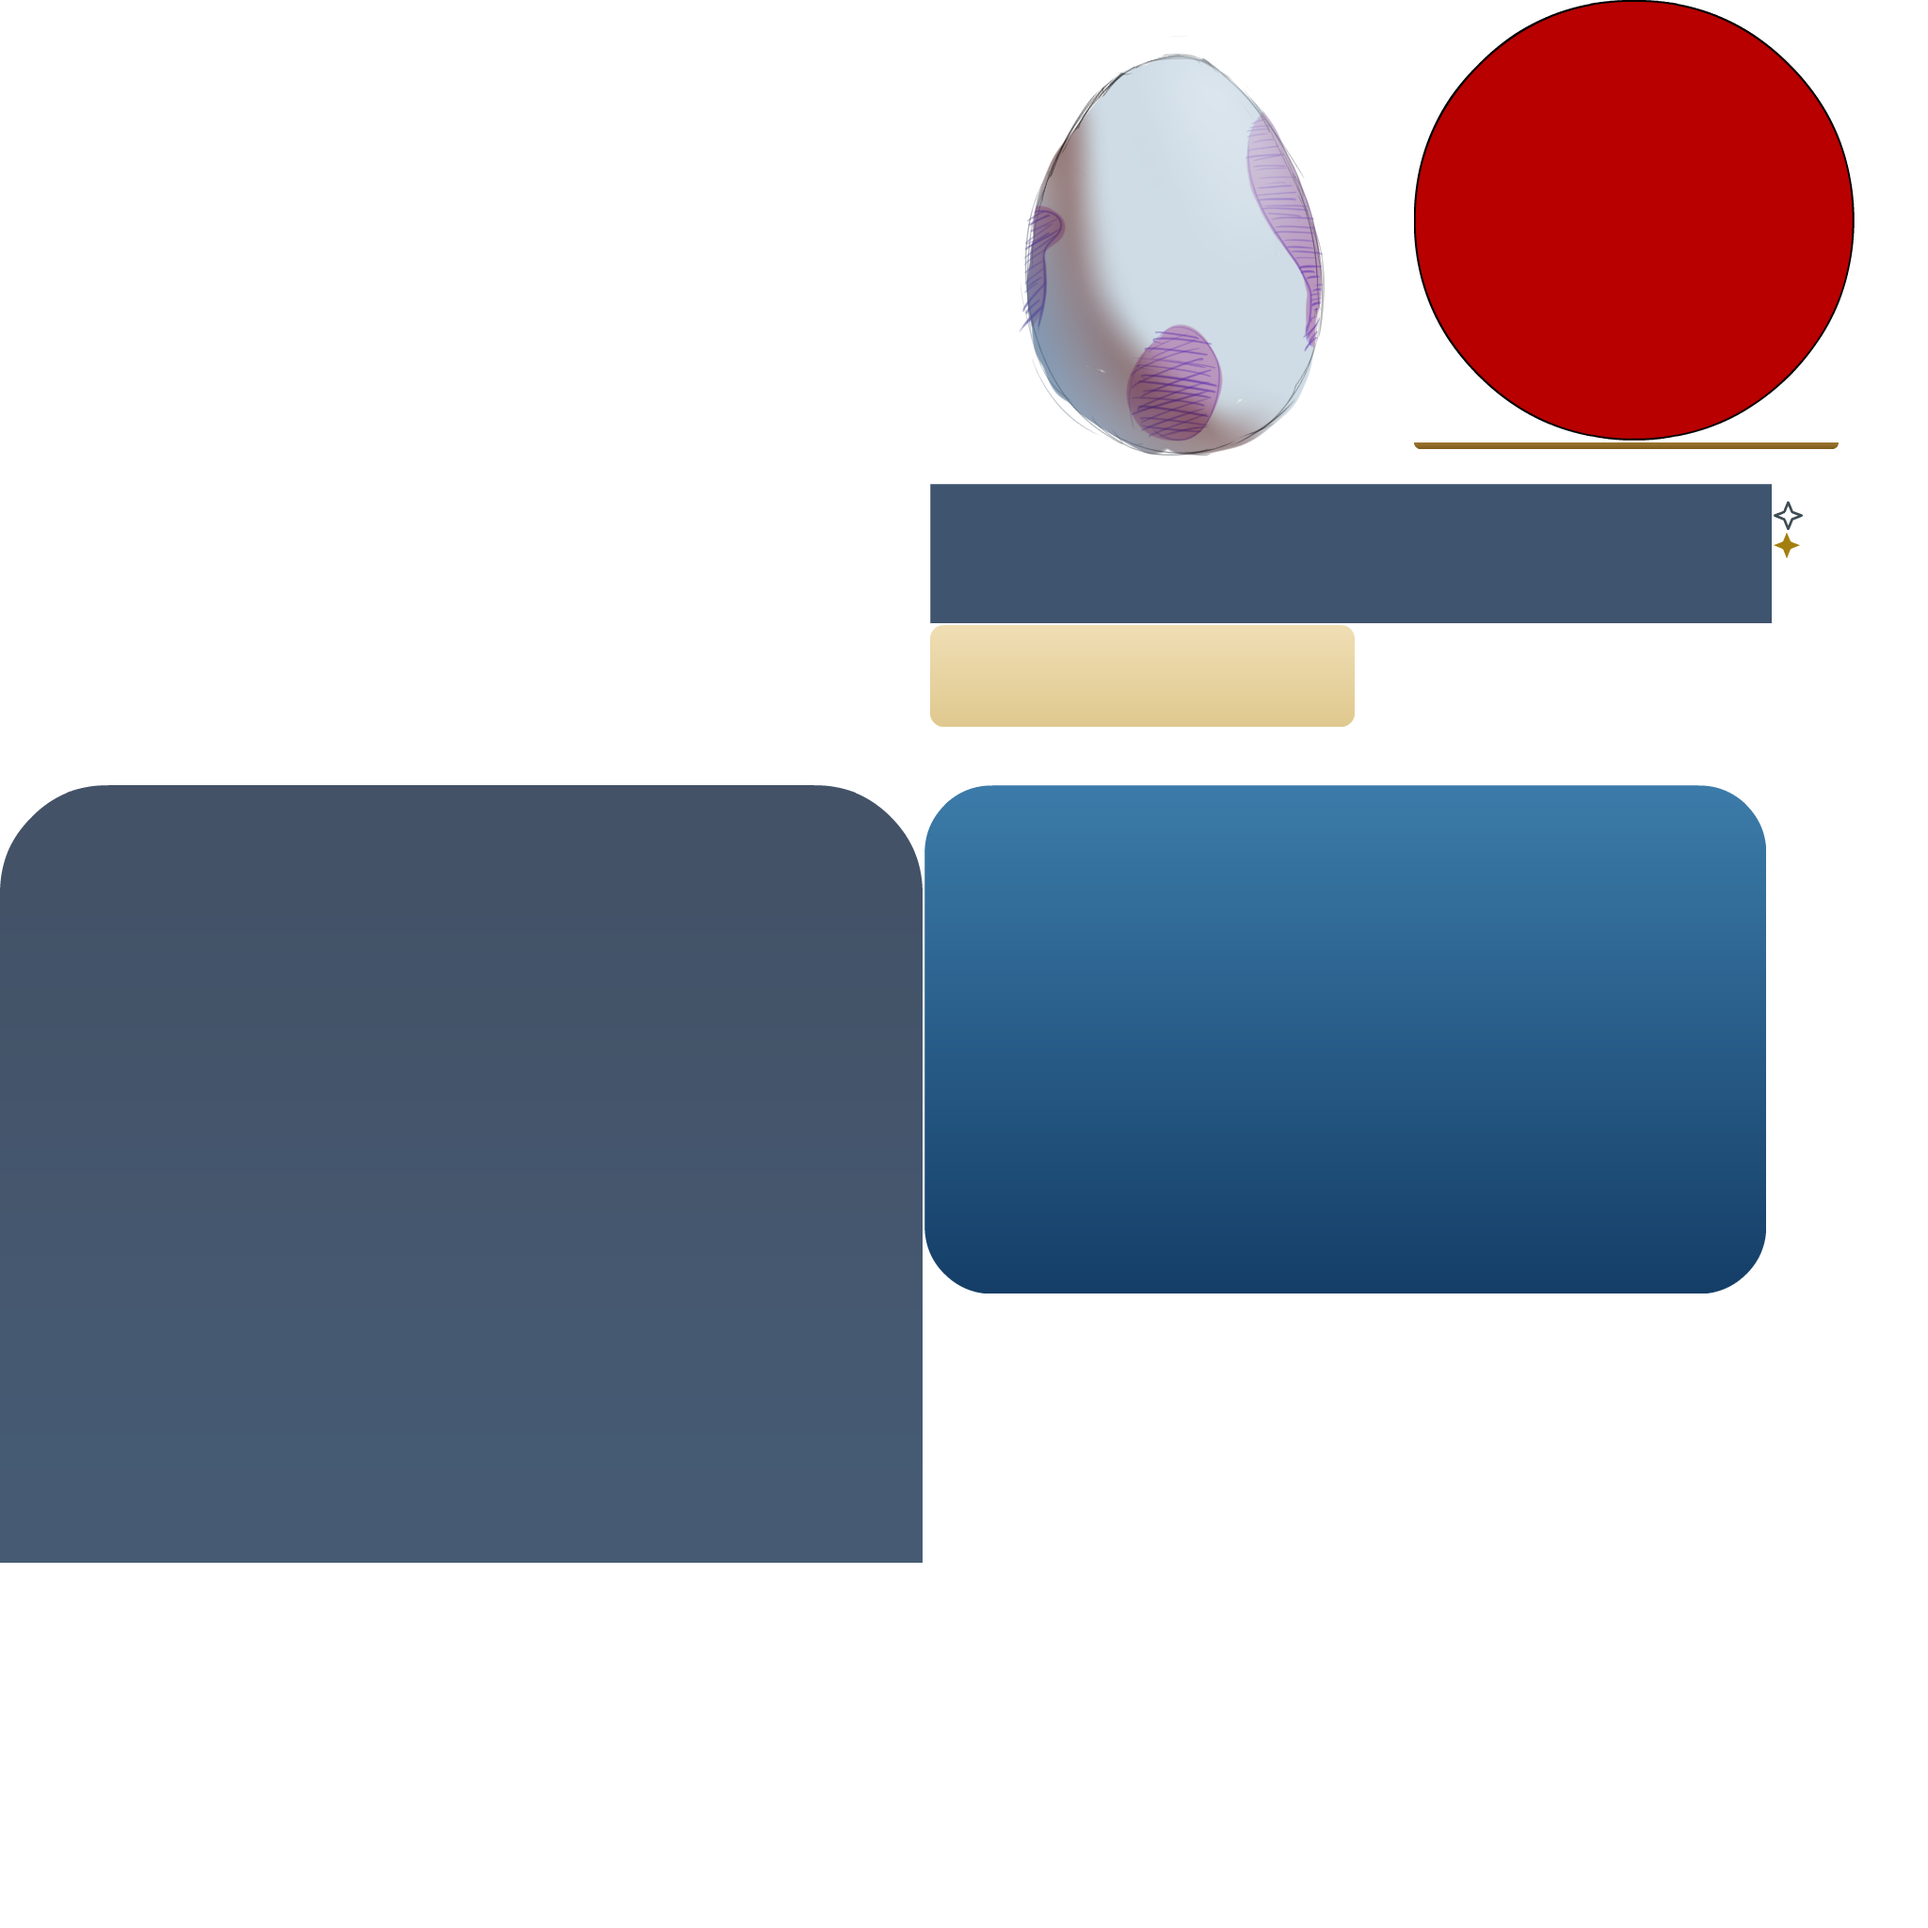
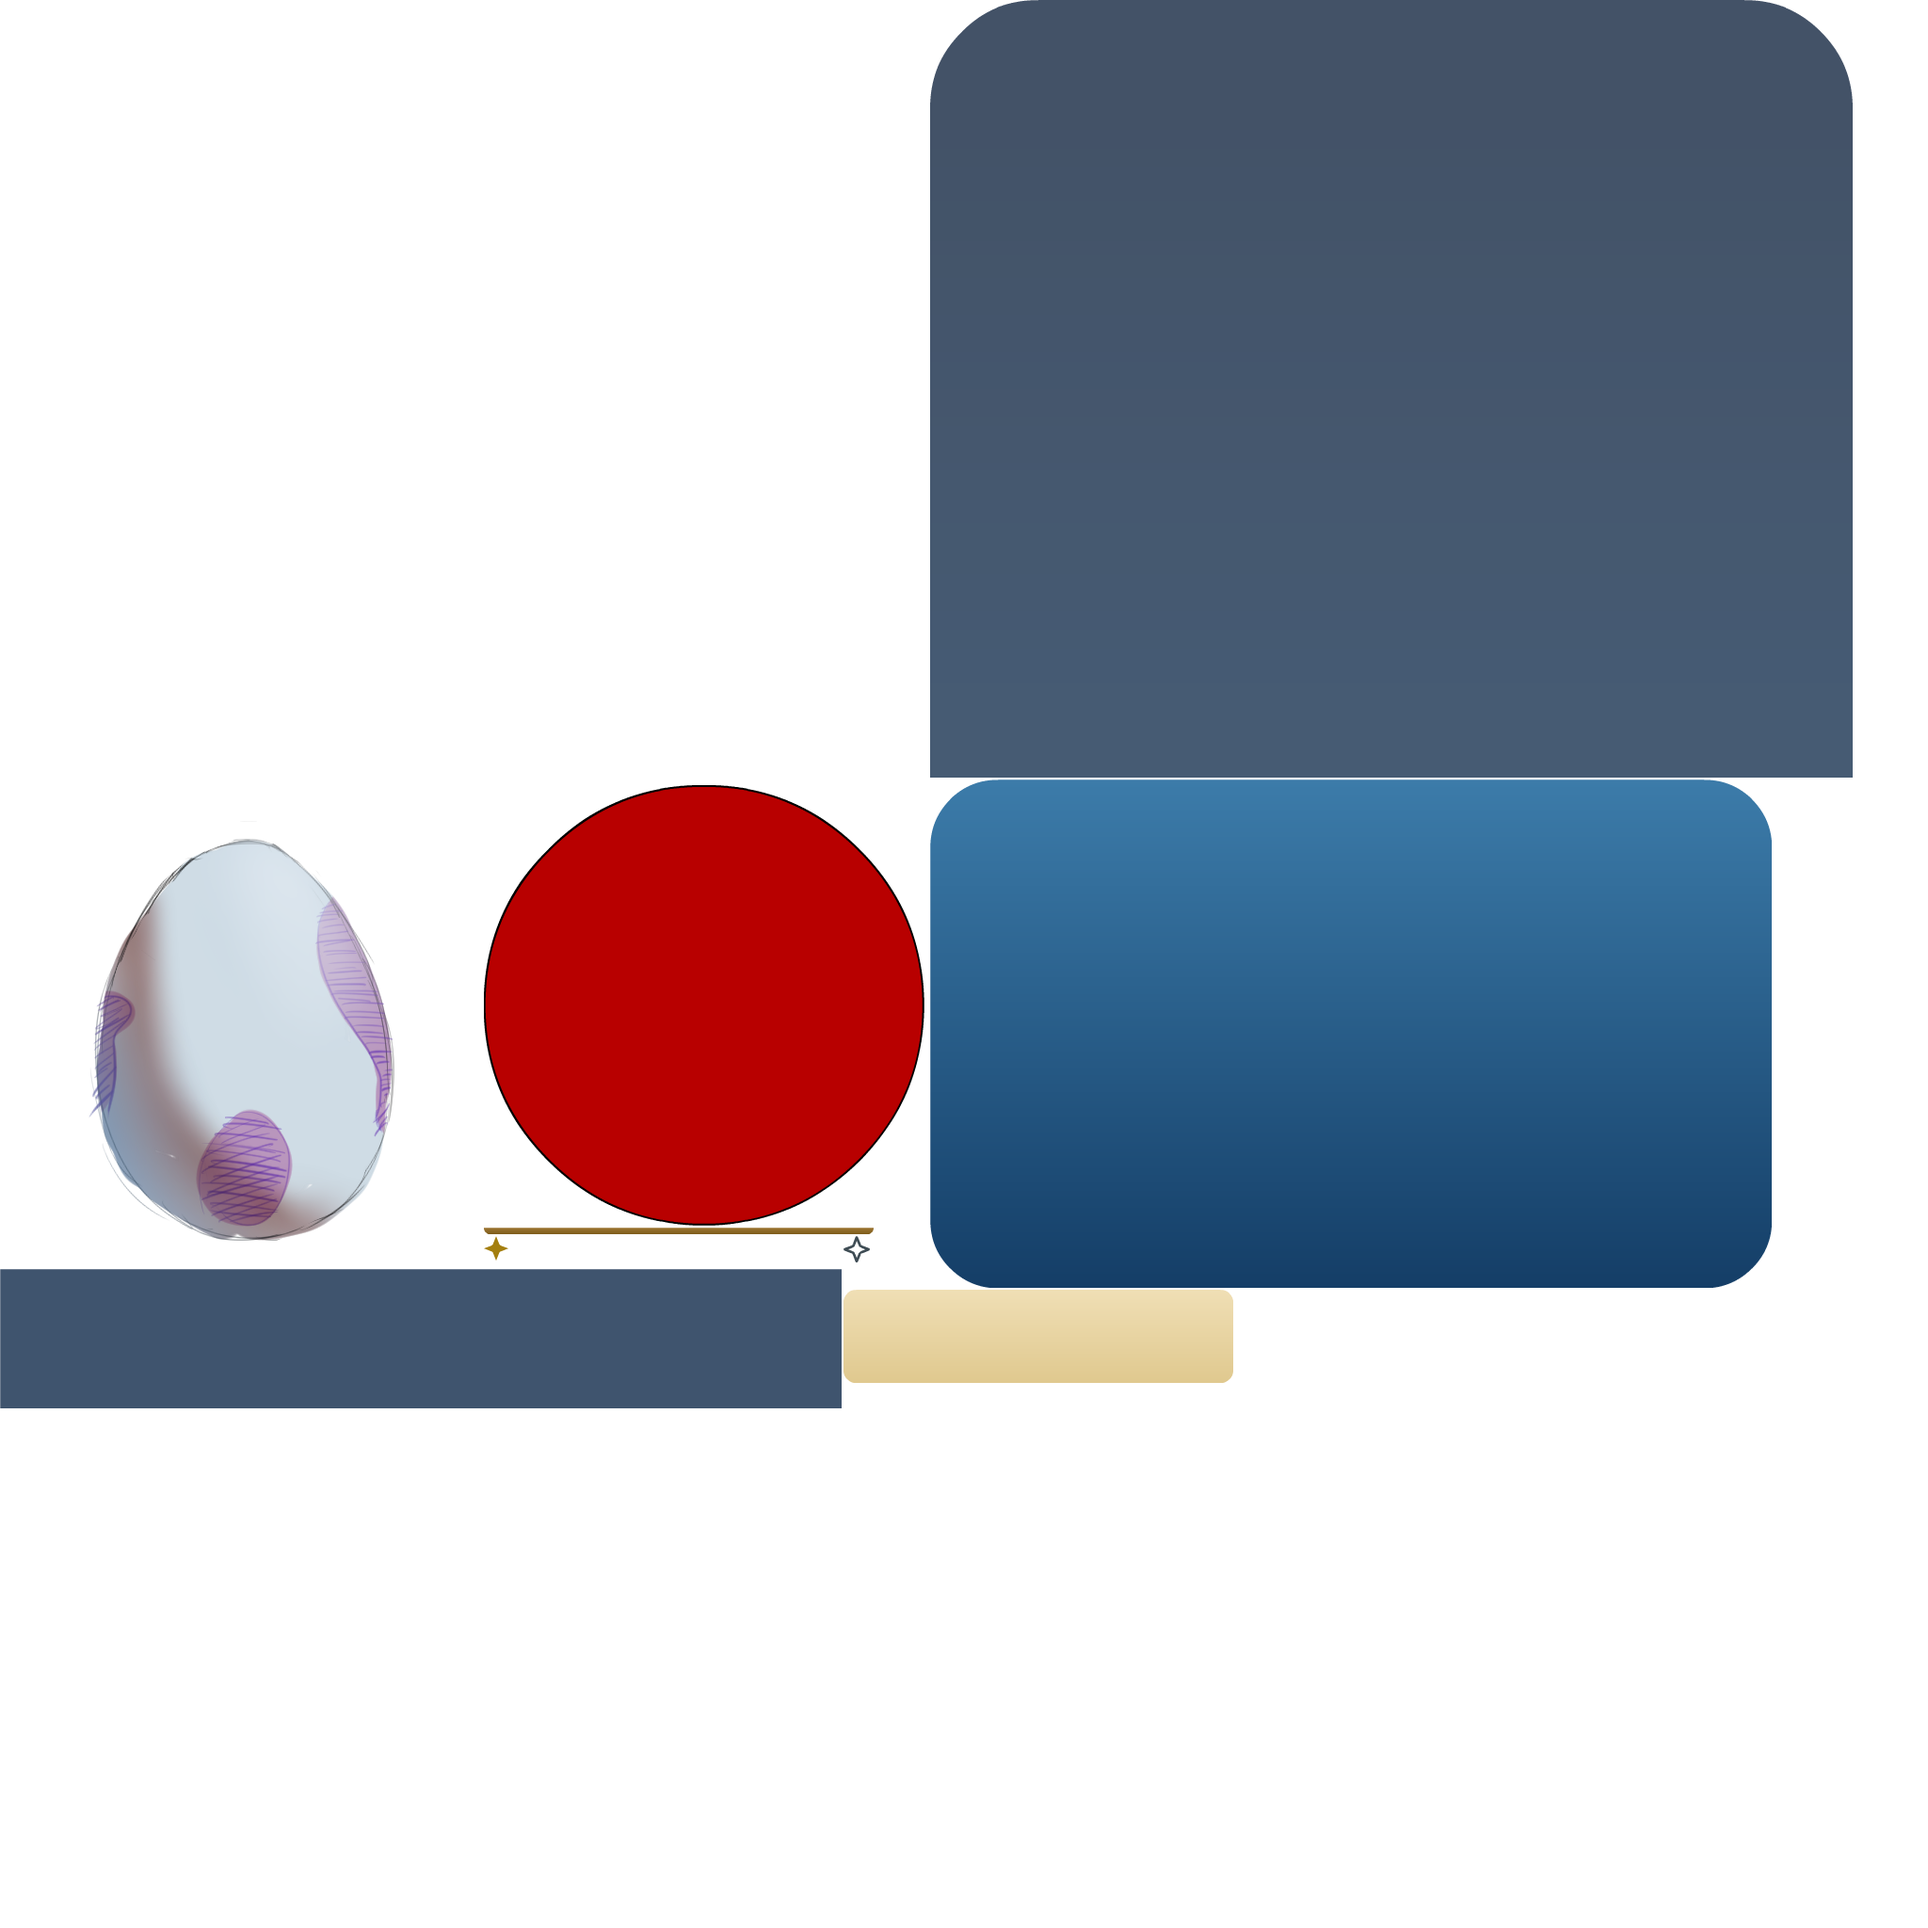
button update

diff --git a/index.js b/index.js
@@ -3,7 +3,7 @@
 var p; // shortcut to reference prototypes
 var lib={};var ss={};var img={};
 lib.ssMetadata = [
-		{name:"index_atlas_", frames: [[1502,0,468,468],[0,834,980,826],[0,0,986,832],[982,834,894,540],[1178,1376,188,188],[982,1376,194,194],[1884,565,28,28],[1884,532,31,31],[988,664,451,108],[1502,470,451,7],[1441,664,451,96],[1884,479,51,51],[988,514,894,148],[988,774,894,20],[988,0,512,512]]}
+		{name:"index_atlas_", frames: [[514,834,468,468],[988,0,980,826],[0,0,986,832],[988,828,894,540],[1508,1370,188,188],[1312,1370,194,194],[514,1313,26,26],[930,1304,51,51],[896,1313,28,28],[896,1370,414,99],[514,1304,414,7],[896,1471,414,88],[0,1348,894,148],[0,1498,894,20],[0,834,512,512]]}
 ];
 
 
@@ -53,42 +53,42 @@ lib.ssMetadata = [
 
 
 
-(lib.CachedTexturedBitmap_64 = function() {
+(lib.CachedTexturedBitmap_69 = function() {
 	this.initialize(ss["index_atlas_"]);
 	this.gotoAndStop(6);
 }).prototype = p = new cjs.Sprite();
 
 
 
-(lib.CachedTexturedBitmap_65 = function() {
+(lib.CachedTexturedBitmap_7 = function() {
 	this.initialize(ss["index_atlas_"]);
 	this.gotoAndStop(7);
 }).prototype = p = new cjs.Sprite();
 
 
 
-(lib.CachedTexturedBitmap_66 = function() {
+(lib.CachedTexturedBitmap_70 = function() {
 	this.initialize(ss["index_atlas_"]);
 	this.gotoAndStop(8);
 }).prototype = p = new cjs.Sprite();
 
 
 
-(lib.CachedTexturedBitmap_67 = function() {
+(lib.CachedTexturedBitmap_71 = function() {
 	this.initialize(ss["index_atlas_"]);
 	this.gotoAndStop(9);
 }).prototype = p = new cjs.Sprite();
 
 
 
-(lib.CachedTexturedBitmap_68 = function() {
+(lib.CachedTexturedBitmap_72 = function() {
 	this.initialize(ss["index_atlas_"]);
 	this.gotoAndStop(10);
 }).prototype = p = new cjs.Sprite();
 
 
 
-(lib.CachedTexturedBitmap_7 = function() {
+(lib.CachedTexturedBitmap_73 = function() {
 	this.initialize(ss["index_atlas_"]);
 	this.gotoAndStop(11);
 }).prototype = p = new cjs.Sprite();
@@ -199,13 +199,13 @@ function getMCSymbolPrototype(symbol, nominalBounds, frameBounds) {
 	this.timeline.addTween(cjs.Tween.get(this.hatchButtonText).wait(1));
 
 	// Layer_4
-	this.instance = new lib.CachedTexturedBitmap_65();
+	this.instance = new lib.CachedTexturedBitmap_70();
 	this.instance.parent = this;
-	this.instance.setTransform(23.65,40.15,1.0946,1.0946);
+	this.instance.setTransform(23.65,40.15,1.1924,1.1924);
 
-	this.instance_1 = new lib.CachedTexturedBitmap_64();
+	this.instance_1 = new lib.CachedTexturedBitmap_69();
 	this.instance_1.parent = this;
-	this.instance_1.setTransform(432,41.4,1.0946,1.0946);
+	this.instance_1.setTransform(432.05,41.4,1.1924,1.1924);
 
 	this.timeline.addTween(cjs.Tween.get({}).to({state:[{t:this.instance_1},{t:this.instance}]}).wait(1));
 
@@ -216,17 +216,17 @@ function getMCSymbolPrototype(symbol, nominalBounds, frameBounds) {
 	mask.setTransform(247,59);
 
 	// Layer_3
-	this.instance_2 = new lib.CachedTexturedBitmap_68();
+	this.instance_2 = new lib.CachedTexturedBitmap_73();
 	this.instance_2.parent = this;
-	this.instance_2.setTransform(0,2.95,1.0946,1.0946);
+	this.instance_2.setTransform(0,2.95,1.1924,1.1924);
 
-	this.instance_3 = new lib.CachedTexturedBitmap_67();
+	this.instance_3 = new lib.CachedTexturedBitmap_72();
 	this.instance_3.parent = this;
-	this.instance_3.setTransform(0,110,1.0946,1.0946);
+	this.instance_3.setTransform(0,110,1.1924,1.1924);
 
-	this.instance_4 = new lib.CachedTexturedBitmap_66();
+	this.instance_4 = new lib.CachedTexturedBitmap_71();
 	this.instance_4.parent = this;
-	this.instance_4.setTransform(0,0,1.0946,1.0946);
+	this.instance_4.setTransform(0,0,1.1924,1.1924);
 
 	var maskedShapeInstanceList = [this.instance_2,this.instance_3,this.instance_4];
 
@@ -2657,6 +2657,86 @@ function getMCSymbolPrototype(symbol, nominalBounds, frameBounds) {
 		
 		
 		// --------------------------------------------------
+		// HATCH BUTTON
+		// --------------------------------------------------
+		
+		var hatchButton = self.Hatch;
+		
+		if (hatchButton) {
+		
+		    hatchButton.cursor = "pointer";
+		
+		    // --------------------------------------------------
+		    // HATCH BUTTON TEXT
+		    // --------------------------------------------------
+		
+		    if (hatchButton.hatchButtonText) {
+		
+		        hatchButton.hatchButtonText.font =
+		            "bold 50px 'DM Sans'";
+		    }
+		}
+		
+		
+		// --------------------------------------------------
+		// PAGE INDICATOR DOTS
+		// --------------------------------------------------
+		
+		var pageDots = new createjs.Container();
+		
+		self.addChild(pageDots);
+		
+		
+		// --------------------------------------------------
+		// DOT SETTINGS
+		// --------------------------------------------------
+		
+		var DOT_COUNT = 5;
+		var DOT_RADIUS = 4;
+		var DOT_SPACING = 18;
+		
+		
+		// --------------------------------------------------
+		// CREATE DOTS
+		// --------------------------------------------------
+		
+		for (var i = 0; i < DOT_COUNT; i++) {
+		
+		    var dot = new createjs.Shape();
+		
+		    // First dot is gray
+		    if (i === 0) {
+		
+		        dot.graphics
+		            .beginFill("#777777")
+		            .drawCircle(
+		                0,
+		                0,
+		                DOT_RADIUS
+		            );
+		
+		    } else {
+		
+		        dot.graphics
+		            .beginFill("#FFFFFF")
+		            .drawCircle(
+		                0,
+		                0,
+		                DOT_RADIUS
+		            );
+		    }
+		
+		    dot.alpha = 0.85;
+		
+		    dot.x =
+		        (i - (DOT_COUNT - 1) / 2) *
+		        DOT_SPACING;
+		
+		    pageDots.addChild(dot);
+		}
+		
+		
+		// --------------------------------------------------
 		// UPDATE COUNTDOWN DISPLAY
 		// --------------------------------------------------
 		
@@ -2700,6 +2780,28 @@ function getMCSymbolPrototype(symbol, nominalBounds, frameBounds) {
 		        minuteText +
 		        ":" +
 		        secondText;
+		
+		
+		    // --------------------------------------------------
+		    // UPDATE HATCH BUTTON TEXT
+		    // --------------------------------------------------
+		
+		    if (
+		        hatchButton &&
+		        hatchButton.hatchButtonText
+		    ) {
+		
+		        if (totalSeconds > 0) {
+		
+		            hatchButton.hatchButtonText.text =
+		                "Change the rarity.";
+		
+		        } else {
+		
+		            hatchButton.hatchButtonText.text =
+		                "Hatch the egg";
+		        }
+		    }
 		}
 		
 		
@@ -2736,63 +2838,6 @@ function getMCSymbolPrototype(symbol, nominalBounds, frameBounds) {
 		        }
 		
 		    }, 1000);
-		}
-		
-		
-		// --------------------------------------------------
-		// HATCH BUTTON
-		// --------------------------------------------------
-		
-		// Hatch is now an actual Animate stage instance
-		var hatchButton = self.Hatch;
-		
-		if (hatchButton) {
-		
-		    hatchButton.cursor = "pointer";
-		}
-		
-		
-		// --------------------------------------------------
-		// PAGE INDICATOR DOTS
-		// --------------------------------------------------
-		
-		var pageDots = new createjs.Container();
-		
-		self.addChild(pageDots);
-		
-		
-		// --------------------------------------------------
-		// DOT SETTINGS
-		// --------------------------------------------------
-		
-		var DOT_COUNT = 5;
-		var DOT_RADIUS = 4;
-		var DOT_SPACING = 18;
-		
-		
-		// --------------------------------------------------
-		// CREATE DOTS
-		// --------------------------------------------------
-		
-		for (var i = 0; i < DOT_COUNT; i++) {
-		
-		    var dot = new createjs.Shape();
-		
-		    dot.graphics
-		        .beginFill("#FFFFFF")
-		        .drawCircle(
-		            0,
-		            0,
-		            DOT_RADIUS
-		        );
-		
-		    dot.alpha = 0.85;
-		
-		    dot.x =
-		        (i - (DOT_COUNT - 1) / 2) *
-		        DOT_SPACING;
-		
-		    pageDots.addChild(dot);
 		}
 		
 		
@@ -3121,7 +3166,7 @@ function getMCSymbolPrototype(symbol, nominalBounds, frameBounds) {
 		
 		
 		    // --------------------------------------------------
-		    // HATCH BUTTON
+		    // HATCH BUTTON POSITION
 		    // --------------------------------------------------
 		
 		    if (hatchButton) {
@@ -3129,14 +3174,14 @@ function getMCSymbolPrototype(symbol, nominalBounds, frameBounds) {
 		        hatchButton.x =
 		            W / 2;
 		
-		        // Shifted higher
+		        // Button shifted higher
 		        hatchButton.y =
 		            barTop - 28;
 		    }
 		
 		
 		    // --------------------------------------------------
-		    // PAGE DOTS
+		    // PAGE DOTS POSITION
 		    // --------------------------------------------------
 		
 		    pageDots.x =
@@ -3144,7 +3189,6 @@ function getMCSymbolPrototype(symbol, nominalBounds, frameBounds) {
 		
 		    if (hatchButton) {
 		
-		        // Dots stay above the button
 		        pageDots.y =
 		            hatchButton.y - 42;
 		
@@ -3187,7 +3231,7 @@ function getMCSymbolPrototype(symbol, nominalBounds, frameBounds) {
 	this.Hatch = new lib.Hatch();
 	this.Hatch.name = "Hatch";
 	this.Hatch.parent = this;
-	this.Hatch.setTransform(641.05,637,0.4568,0.4568,0,0,0,247.1,59);
+	this.Hatch.setTransform(641.05,637,0.4193,0.4193,0,0,0,247.2,59);
 	this.Hatch._off = true;
 
 	this.timeline.addTween(cjs.Tween.get(this.Hatch).wait(1).to({_off:false},0).wait(1));
@@ -3202,7 +3246,7 @@ function getMCSymbolPrototype(symbol, nominalBounds, frameBounds) {
 	this.timeline.addTween(cjs.Tween.get(this.egg).wait(1).to({_off:false},0).wait(1));
 
 }).prototype = p = new cjs.MovieClip();
-p.nominalBounds = new cjs.Rectangle(0,0,834.3,664.1);
+p.nominalBounds = new cjs.Rectangle(0,0,834.3,661.9);
 // library properties:
 lib.properties = {
 	id: '6EA4766156B7B04292821C2C02025349',
@@ -3212,7 +3256,7 @@ lib.properties = {
 	color: "#0099CC",
 	opacity: 1.00,
 	manifest: [
-		{src:"images/index_atlas_.png?1791083062454", id:"index_atlas_"}
+		{src:"images/index_atlas_.png?1791083880018", id:"index_atlas_"}
 	],
 	preloads: []
 };

diff --git a/index.html b/index.html
@@ -22,7 +22,7 @@
   }
 </style>
 <script src="https://code.createjs.com/createjs-2015.11.26.min.js"></script>
-<script src="index.js?1791083062571"></script>
+<script src="index.js?1791083880105"></script>
 <script>
 var canvas, stage, exportRoot, anim_container, dom_overlay_container, fnStartAnimation;
 function init() {
@@ -75,6 +75,6 @@ function handleComplete(evt,comp) {
 		<div id="dom_overlay_container" style="pointer-events:none; overflow:hidden; width:1280px; height:720px; position: absolute; left: 0px; top: 0px; display: none;">
 		</div>
 	</div>
-    <div id='_preload_div_' style='position:absolute; top:0; left:0; display: inline-block; height:720px; width: 1280px; text-align: center;'>	<span style='display: inline-block; height: 100%; vertical-align: middle;'></span>	<img src=images/_preloader.gif?1791083062571 style='vertical-align: middle; max-height: 100%'/></div>
+    <div id='_preload_div_' style='position:absolute; top:0; left:0; display: inline-block; height:720px; width: 1280px; text-align: center;'>	<span style='display: inline-block; height: 100%; vertical-align: middle;'></span>	<img src=images/_preloader.gif?1791083880105 style='vertical-align: middle; max-height: 100%'/></div>
 </body>
 </html>
